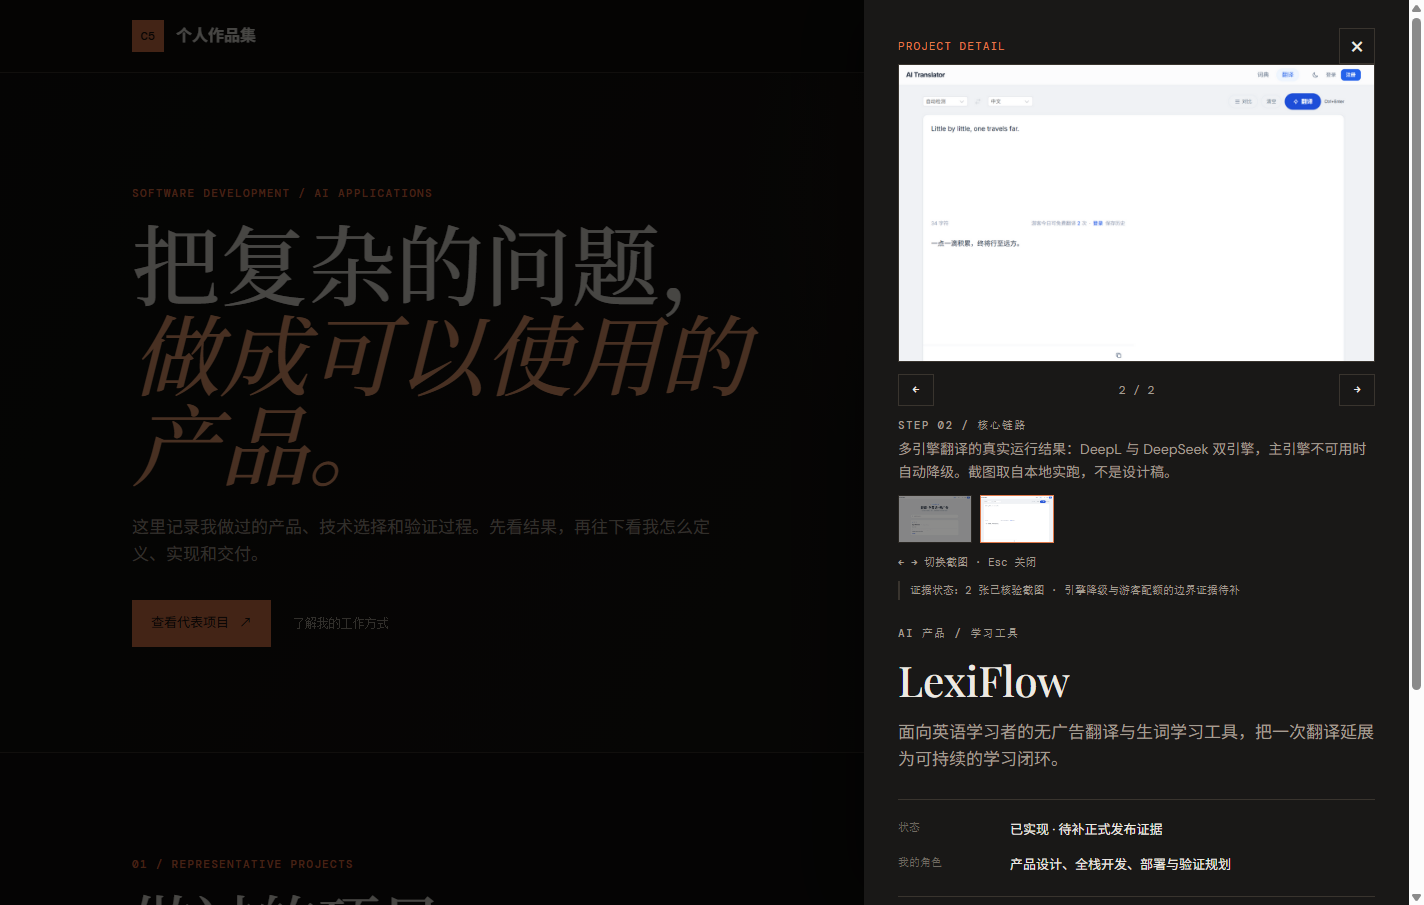
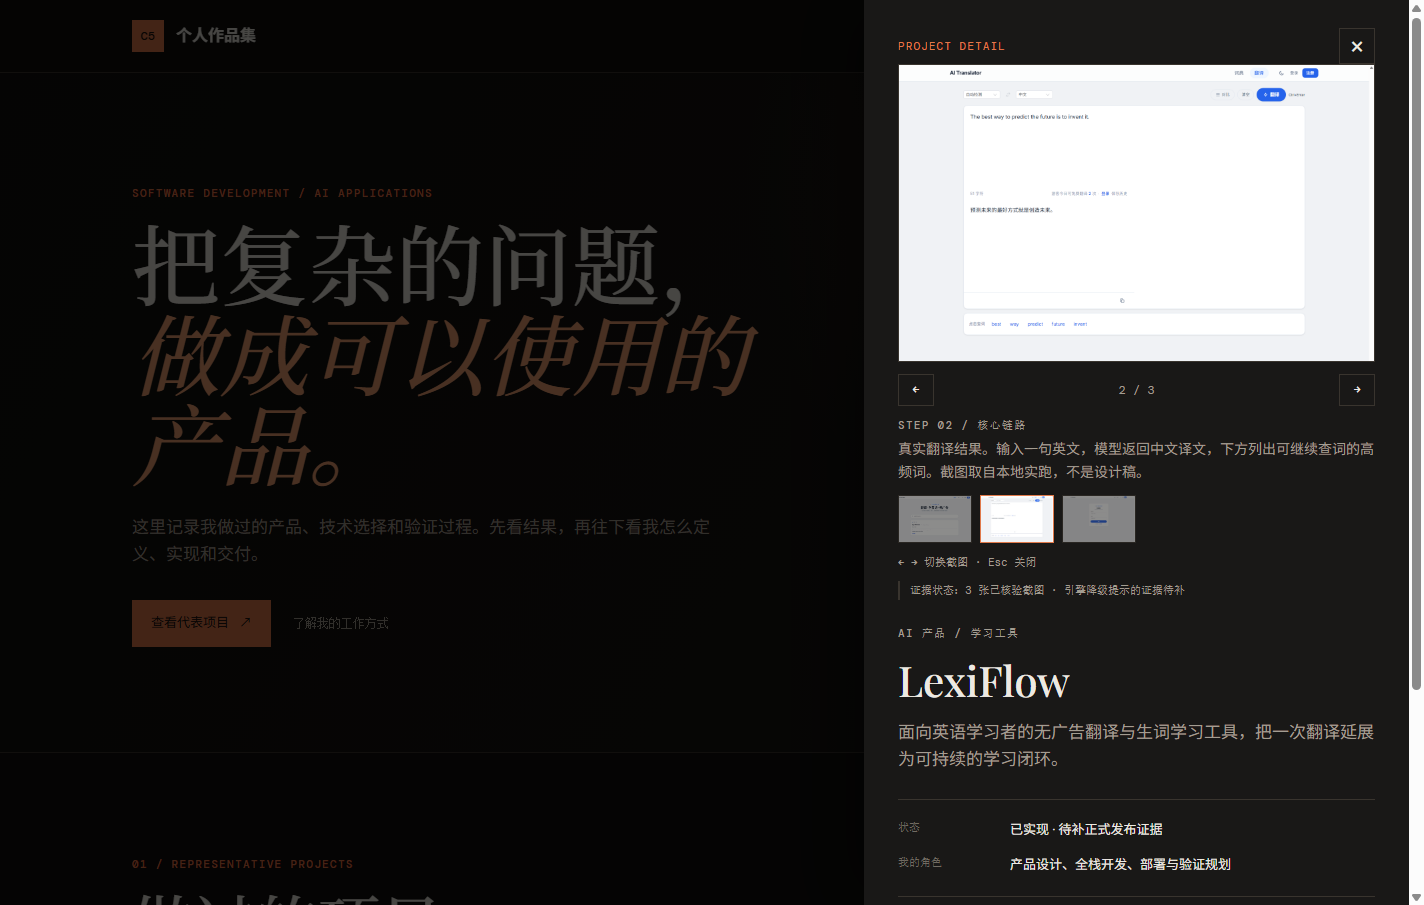
feat: capture real LexiFlow flow and add boundary evidence to the gallery
LexiFlow 的前两张素材来自旧截图，且缺少最有说服力的边界证据。本轮用浏览器脚本驱动
本地实跑采集，把案例补成「入口 → 核心链路 → 边界处理」三步。

新增素材（均为本地实跑，非设计稿）：
- lexiflow-translate-result.png：真实翻译结果，输入英文返回中文译文并列出可查词的高频词
- lexiflow-quota-limit.png：游客配额耗尽后被拦截的状态

边界证据采集结果：

  第 1 次 每天一小步，胜过一大步。      提示：游客今日可免费翻译 2 次
  第 2 次 好工具融入工作之中。          提示：游客今日可免费翻译 1 次
  第 3 次 交付真实存在的最小事物。      提示：游客今日可免费翻译 0 次
  第 4 次 被拦截，前端跳转到登录页

结论：游客配额按匿名标识独立计数，耗尽后引导登录而不是静默失败。同一句子在不同次
请求下译文略有差异（模型输出非确定性），案例描述不声称译文可复现。

采集过程同时修正了一处误判：首次采集时曾以为配额未生效，实际是采集脚本提取页面文案
的正则未匹配到嵌套元素，属于脚本缺陷而非产品缺陷。

验收脚本更新：图组断言由 2 张改为 3 张，并新增左箭头从首张回绕到末张的检查。
2026-09-10 重新执行 25 项，全部通过。

仍需注意：截图展示的是项目界面与真实运行结果，不包含任何真实用户数据；本案例的
引擎降级提示证据仍待补。

diff --git a/project/frontend/src/App.vue b/project/frontend/src/App.vue
@@ -2,7 +2,7 @@
 import { computed, onMounted, onUnmounted, ref } from 'vue'
 
 const fallbackProjects = [
-  { id: 1, slug: 'ai-translator', title: 'LexiFlow', summary: '面向英语学习者的无广告翻译与生词学习工具，把一次翻译延展为可持续的学习闭环。', background: '翻译、收藏、复习和统计共同组成学习闭环。', outcome: '已实现核心闭环，等待补齐正式发布证据。', role: '产品设计、全栈开发、部署与验证规划', projectType: 'AI 产品 / 学习工具', project_type: 'INDEPENDENT', status: '已实现 · 待补正式发布证据', tags: ['FastAPI', 'Vue 3', '学习闭环'], image: '/assets/v5/translator-home.png', visualKind: 'screenshot', evidence: '2 张已核验截图 · 引擎降级与游客配额的边界证据待补', gallery: [{ src: '/assets/v5/translator-home.png', step: 'STEP 01 / 入口', caption: '首页「每日一词」。把工具的入口前置成每天可以回访的学习动作，而不是一次性的翻译框。' }, { src: '/assets/v5/translator-translate.png', step: 'STEP 02 / 核心链路', caption: '多引擎翻译的真实运行结果：DeepL 与 DeepSeek 双引擎，主引擎不可用时自动降级。截图取自本地实跑，不是设计稿。' }] },
+  { id: 1, slug: 'ai-translator', title: 'LexiFlow', summary: '面向英语学习者的无广告翻译与生词学习工具，把一次翻译延展为可持续的学习闭环。', background: '翻译、收藏、复习和统计共同组成学习闭环。', outcome: '已实现核心闭环，等待补齐正式发布证据。', role: '产品设计、全栈开发、部署与验证规划', projectType: 'AI 产品 / 学习工具', project_type: 'INDEPENDENT', status: '已实现 · 待补正式发布证据', tags: ['FastAPI', 'Vue 3', '学习闭环'], image: '/assets/v5/translator-home.png', visualKind: 'screenshot', evidence: '3 张已核验截图 · 引擎降级提示的证据待补', gallery: [{ src: '/assets/v5/translator-home.png', step: 'STEP 01 / 入口', caption: '首页「每日一词」。把工具的入口前置成每天可以回访的学习动作，而不是一次性的翻译框。' }, { src: '/assets/v5/lexiflow-translate-result.png', step: 'STEP 02 / 核心链路', caption: '真实翻译结果。输入一句英文，模型返回中文译文，下方列出可继续查词的高频词。截图取自本地实跑，不是设计稿。' }, { src: '/assets/v5/lexiflow-quota-limit.png', step: 'STEP 03 / 边界处理', caption: '匿名游客每日 3 次免费翻译，用完后不静默失败，而是引导登录。配额按匿名标识独立计数，登录用户不受限。' }] },
   { id: 2, slug: 'ai-second-brain', title: 'AI Second Brain', summary: '从文档解析到 SSE 对话的个人知识库系统，让私有资料真正参与日常问答。', background: '把文档上传、切片、检索和流式对话连接起来。', outcome: '已完成独立项目闭环，正在整理公开版本证据。', role: '产品建模、Java 全栈开发、测试与部署', projectType: 'AI 产品 / 知识库 RAG', project_type: 'SOLO', status: '已实现 · 发布前复核', tags: ['RAG', 'Spring Boot', 'SSE'], image: '/assets/v5/brain-chat.png', visualKind: 'screenshot', evidence: '2 张已核验截图 · 文档管理内页需本地启动 MySQL 与后端后补截', gallery: [{ src: '/assets/v5/secondbrain-login.png', step: 'STEP 01 / 身份入口', caption: '登录页。系统区分管理员与普通用户，文档、会话与模型配置按账号隔离，不共用同一份数据。' }, { src: '/assets/v5/brain-chat.png', step: 'STEP 02 / 核心链路', caption: '知识库对话。上传的文档经解析、切片、向量化后进入检索，回答以 SSE 流式返回并标注来源片段。' }] },
   { id: 3, slug: 'zhiheng-teaching', title: '高中个性化教学平台 · 知衡', summary: '围绕题库、考试、掌握度、错题和练习构建三角色教学分析闭环。', background: '用清晰的数据流连接管理员、老师和学生的日常工作。', outcome: '高保真原型，尚未进入正式开发。', role: '产品定义、信息架构、交互原型与验收设计', projectType: '业务原型 / 教学分析', project_type: 'PROTOTYPE', status: '高保真原型 · 未进入开发', tags: ['原型', '三角色', '数据闭环'], image: '/assets/v5/teaching-home.png', visualKind: 'screenshot', evidence: '2 张原型截图 · 三角色视图与掌握度分析的证据待补', gallery: [{ src: '/assets/v5/teaching-home.png', step: 'STEP 01 / 管理员视角', caption: '题库管理看板：题目总数、已录入知识点、待审题目与最近录入。覆盖管理员、老师、学生三种角色的入口差异。' }, { src: '/assets/v5/teaching-knowledge.png', step: 'STEP 02 / 数据基础', caption: '知识点学习路径。把知识点组织成可追踪的路径，作为掌握度、错题与练习推荐的数据基础。' }] },
   { id: 4, slug: 'university-news', title: '大学新闻网', summary: 'PC 管理端、移动 Web 与微信小程序共享后端 API 的校园新闻系统。', background: '合作项目，覆盖内容管理、多端展示和文件存储。', outcome: '已授权展示，个人贡献边界待补充。', role: '个人负责范围待确认；此处仅记录团队项目能力', projectType: '内容平台 / 多端体验', project_type: 'COLLABORATIVE', status: '已授权展示 · 贡献边界待补充', tags: ['合作', '多端', '内容管理'], image: '/assets/v5/news-cover.png', visualKind: 'layout', evidence: '当前仅有设计版式 · 截图需先确认团队授权与贡献边界', gallery: [{ src: '/assets/v5/news-cover.png', step: 'STEP 01 / 展示边界', caption: '这一张是设计版式，不是系统截图。合作项目在取得团队授权前，不使用学校实景与具体新闻内容，个人贡献边界同样待确认。' }] },

diff --git a/doc/20-portfolio-vue-migration.md b/doc/20-portfolio-vue-migration.md
@@ -59,10 +59,32 @@
 
 | 案例 | 图组 | 证据状态 |
 |---|---|---|
-| LexiFlow | 入口（每日一词）→ 核心链路（多引擎翻译实跑结果） | 2 张已核验截图；引擎降级与游客配额的边界证据待补 |
+| LexiFlow | 入口（每日一词）→ 核心链路（真实翻译结果）→ 边界处理（游客配额耗尽引导登录） | 3 张已核验截图；引擎降级提示的证据待补 |
 | AI Second Brain | 身份入口（登录）→ 核心链路（SSE 对话与来源片段） | 2 张已核验截图；文档管理内页需本地启动 MySQL 与后端后补截 |
 | 知衡教学平台 | 管理员视角（题库看板）→ 数据基础（知识点路径） | 2 张原型截图；三角色视图与掌握度分析的证据待补 |
 | 大学新闻网 | 展示边界（设计版式，非系统截图） | 仅设计版式；截图需先确认团队授权与贡献边界 |
+
+### LexiFlow 边界证据采集过程（2026-09-10）
+
+LexiFlow 的后两张截图由浏览器脚本驱动本地实跑采集，不是设计稿：
+
+1. 启动后端（venv 解释器，端口 8000）与前端（Vite，端口 5173）。
+2. 无头 Chrome 打开 `/translate`，填入英文句子并点击「翻译」，等待模型返回。
+3. 同一浏览器会话内连续翻译，观察游客配额递减直到被拦截。
+4. 截图被拦截后的页面状态。
+
+实测结果：
+
+```text
+第 1 次  每天一小步，胜过一大步。        页面提示：游客今日可免费翻译 2 次
+第 2 次  好工具融入工作之中。            页面提示：游客今日可免费翻译 1 次
+第 3 次  交付真实存在的最小事物。        页面提示：游客今日可免费翻译 0 次
+第 4 次  被拦截，前端跳转到登录页
+```
+
+结论：游客配额按匿名标识独立计数，耗尽后引导登录而不是静默失败。同一句子在不同次请求下译文会略有差异（模型输出非确定性），因此案例描述不声称译文可复现。
+
+补充说明：首次采集时曾错误地认为配额未生效，实际原因是采集脚本用于提取页面文案的正则未匹配到嵌套元素，属于脚本缺陷而非产品缺陷。
 
 ### 交互验收记录
 
@@ -72,7 +94,7 @@
 node utils/browser-check.mjs http://127.0.0.1:1001/
 ```
 
-2026-09-10 执行结果：**23 项全部通过**。覆盖首屏统计、卡片数量、素材类型标签、抽屉图组（缩略图 / 上一张 / 下一张 / 右箭头循环 / 缩略图跳转）、Escape 关闭与滚动恢复、设计版式徽标、证据状态行、四种筛选、390px 移动端菜单。
+2026-09-10 执行结果：**25 项全部通过**。覆盖首屏统计、卡片数量、素材类型标签、抽屉图组（缩略图 / 上一张 / 下一张 / 左箭头与右箭头双向回绕 / 缩略图跳转）、Escape 关闭与滚动恢复、设计版式徽标、证据状态行、四种筛选、390px 移动端菜单。
 
 截图证据：`gui-test-screenshots/v7-drawer-gallery-step1.png`、`v7-drawer-gallery-step2.png`、`v7-drawer-layout-badge.png`。
 

diff --git a/README.md b/README.md
@@ -91,7 +91,7 @@ project/backend/src/main/java/com/crow5/portfolio/
 - 真实项目资料、贡献边界、证据和授权尚未人工确认，当前不写入真实内容，界面使用空状态或安全占位文案。
 - 公开前端在数据库为空时使用前端内置的安全回退数据；`/api/public/projects` 当前返回空数组。
 - 审核通过、发布、下线和审计事件接口尚未实现，公开内容目前无法通过接口产生。
-- 浏览器交互验收已可执行：`node utils/browser-check.mjs http://127.0.0.1:1001/`（需先启动前后端，本机需安装 Chrome 或 Edge），当前 23 项全部通过，详见 `doc/20`。
+- 浏览器交互验收已可执行：`node utils/browser-check.mjs http://127.0.0.1:1001/`（需先启动前后端，本机需安装 Chrome 或 Edge），当前 25 项全部通过，详见 `doc/20`。
 - 尚未覆盖的浏览器证据：Tab 焦点顺序、`focus-visible` 样式、屏幕阅读器语义，以及后端审核发布链路的浏览器路径（该链路尚未实现）。
 - 案例素材目前是前端展示增强字段，未写入后端数据库；截图故事线只覆盖「入口」与「核心链路」，边界与异常证据仍待补。
 - `prototype/assets/v5/` 与 `project/frontend/public/assets/v5/` 是两处截图副本，正式部署前需确认以哪一处为准。
